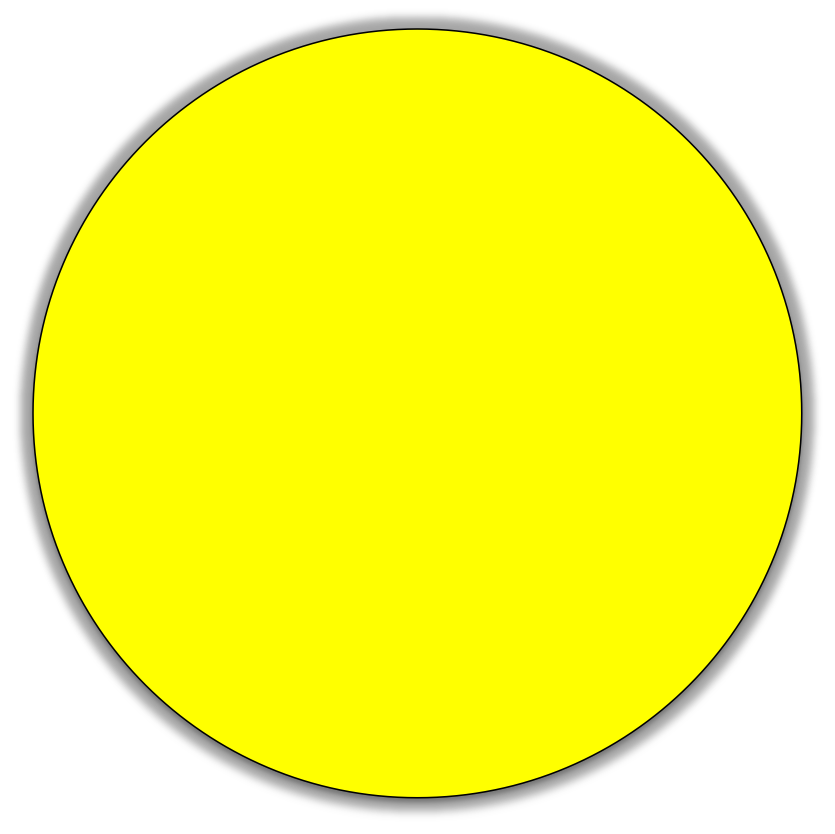
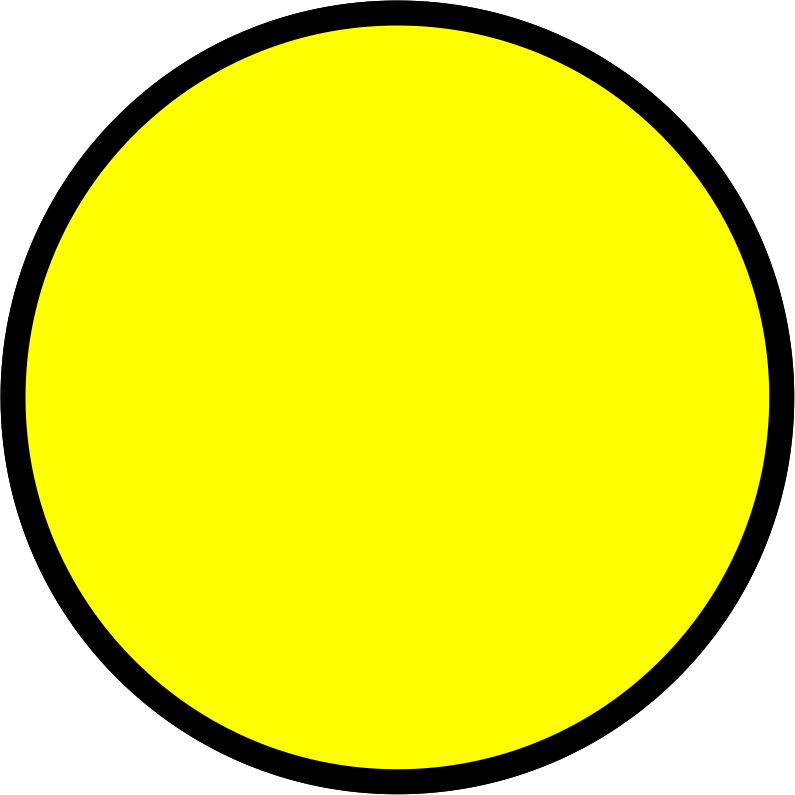
added physics body and collisions to disk and object changed disc from SKShapeNode to SKSpriteNode disk and object are now images

Changed region(s): [[0.0, 0.0, 1.0, 1.0]]

diff --git a/DiskFly/DiskFly/MyScene.m b/DiskFly/DiskFly/MyScene.m
@@ -20,22 +20,12 @@
     if (self = [super initWithSize:size])
     {
         
-        self.backgroundColor = [SKColor whiteColor];
+        self.backgroundColor = [SKColor colorWithRed:(99.0/255.0) green:(184.0/255) blue:(254.0/255) alpha:1];
+        //self.backgroundColor = [SKColor whiteColor];
         
         MoveZone *zone = [[MoveZone alloc] initWithWidth:self.frame.size.width andHeight:75 andScene:self];
         zone.fillColor = [SKColor grayColor];
         [self addChild:zone];
-        
-        
-        Disc *cue = [[Disc alloc] init];
-        cue.position = CGPointMake(self.frame.size.width / 2, 37.5);
-        cue.fillColor = [SKColor yellowColor];
-        [self addChild:cue];
-        
-        Disc *star = [[Disc alloc] init];
-        star.position = CGPointMake(self.frame.size.width / 2, self.frame.size.height * 2 / 3);
-        star.fillColor = [SKColor blueColor];
-        [self addChild:star];
         
         GoalNode *outsideGoal = [[GoalNode alloc] initWithWidth:self.frame.size.width - 30
                                                       andHeight:100
@@ -53,6 +43,30 @@
                                                      andHeight:60
                                                       andScene:self];
         [self addChild:insideGoal];
+        
+        /*SKPhysicsBody *physicsBody;
+        physicsBody = [SKPhysicsBody bodyWithCircleOfRadius:25];
+        physicsBody.affectedByGravity = NO;
+        physicsBody.velocity = CGVectorMake(0, 200);
+        physicsBody.linearDamping = 1;*/
+        
+        Disc *cue = [[Disc alloc] initWithImageNamed:@"yellowdisk.png"];
+        cue.size = CGSizeMake(50, 50);
+        cue.position = CGPointMake(self.frame.size.width / 2, 37.5);
+        //cue.fillColor = [SKColor yellowColor];
+        [cue setPhysicsBody];
+        [self addChild:cue];
+        
+        
+        Disc *star = [[Disc alloc] initWithImageNamed:@"bluedisk.png"];
+        star.size = CGSizeMake(50, 50);
+        star.position = CGPointMake(self.frame.size.width / 2, self.frame.size.height * 2 / 3);
+        //star.fillColor = [SKColor blueColor];
+        //physicsBody.velocity = CGVectorMake(0, 1);
+        [star setPhysicsBody];
+        star.physicsBody.velocity = CGVectorMake(0, 0);
+        
+        [self addChild:star];
         
        
         

diff --git a/DiskFly/Disc.m b/DiskFly/Disc.m
@@ -16,15 +16,29 @@
     
     UIBezierPath *path = [[UIBezierPath alloc] init];
     [path addArcWithCenter:CGPointMake(0, 0) radius:25 startAngle:0 endAngle:2 * M_PI clockwise:YES];
-    self.fillColor = [SKColor yellowColor];
+    /*self.fillColor = [SKColor yellowColor];
     self.strokeColor = [SKColor blackColor];
     self.glowWidth = 1;
-    self.path = path.CGPath;
+    self.path = path.CGPath;*/
+    
+    
     
     return self;
     
     
 }
 
+
+- (void) setPhysicsBody {
+    
+    SKPhysicsBody *physicsBody = [SKPhysicsBody bodyWithEdgeLoopFromRect:self.frame];
+    physicsBody = [SKPhysicsBody bodyWithCircleOfRadius:25];
+    physicsBody.affectedByGravity = NO;
+    physicsBody.velocity = CGVectorMake(25, 450);
+    physicsBody.linearDamping = 1.1;
+
+
+    self.physicsBody = physicsBody;
+}
 
 @end

diff --git a/DiskFly/Disc.h b/DiskFly/Disc.h
@@ -8,8 +8,9 @@
 
 #import <SpriteKit/SpriteKit.h>
 
-@interface Disc : SKShapeNode
+@interface Disc : SKSpriteNode
 
 -(instancetype) init;
+-(void) setPhysicsBody;
 
 @end
